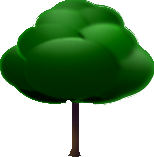
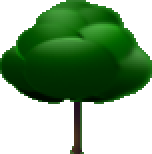
proper tiling chunks FINALLY 😤

diff --git a/Ground.cpp b/Ground.cpp
@@ -1,10 +1,14 @@
 #include "Ground.hpp"
 #include <cassert>
+#include <iostream>
+#include <sstream>
+#include <string>
 
 Ground::Ground(Shader &shader)
-    : Ground(shader, 50, 50, (Vector3){0.0f, 0.0f, 0.0f}) {}
+    : Ground(shader, 50, 50, 0, 0, (Vector3){0.0f, 0.0f, 0.0f}) {}
 
-Ground::Ground(Shader &shader, int width, int length, Vector3 origin)
+Ground::Ground(Shader &shader, int width, int length, int xIdx, int zIdx,
+               Vector3 origin)
     : Object{shader}, meshWidth{width}, meshLength{length}, origin{origin} {
   // https://www.raylib.com/examples/shaders/loader.html?name=shaders_vertex_displacement
   this->setShader(shader);
@@ -13,27 +17,37 @@ Ground::Ground(Shader &shader, int width, int length, Vector3 origin)
   // create perlin noise to use as texture
   int texWidth = leastGreaterTwo(width * 10);
   int texLength = leastGreaterTwo(length * 10);
-  /* std::cout << "size w is: " << texWidth << std::endl; */
-  /* std::cout << "size l is: " << texLength << std::endl; */
+  std::cout << "xidx is: " << xIdx << std::endl;
+  std::cout << "zidx l is: " << zIdx << std::endl;
 
-  Image perlinNoiseImage =
-      GenImagePerlinNoise(texWidth, texLength, 10, 10, 1.0f);
-  this->initModel(perlinNoiseImage);
-  this->initPlaneHeights(perlinNoiseImage, 10);
-  UnloadImage(perlinNoiseImage);
+  perlinNoiseImage = std::make_unique<Image>(GenImagePerlinNoise(
+      texWidth, texLength, xIdx * texWidth, zIdx * texLength, 1.0f));
+  assert(IsImageValid(*perlinNoiseImage));
+
+  std::stringstream str;
+  str << zIdx << xIdx << ".png";
+  std::string strc = str.str();
+
+  /* ExportImage(perlinNoiseImage, strc.c_str()); */
+  this->initModel(*perlinNoiseImage);
+  this->initPlaneHeights(*perlinNoiseImage, 10);
+  /* UnloadImage(perlinNoiseImage); */
 }
 
 Ground::Ground(const Ground &other) : Object(other.shader) {
   planeModel = nullptr;
   planeMesh = nullptr;
+  perlinNoiseImage = nullptr;
 
   planeModel = std::make_unique<Model>(*(other.planeModel));
   planeMesh = std::make_unique<Mesh>(*(other.planeMesh));
+  perlinNoiseImage = std::make_unique<Image>(*(other.perlinNoiseImage));
   planeHeights = other.planeHeights;
 
   meshWidth = other.meshWidth;
   meshLength = other.meshLength;
   origin = other.origin;
+  texture = other.texture;
 }
 
 Ground &Ground::operator=(Ground &&other) {
@@ -41,17 +55,21 @@ Ground &Ground::operator=(Ground &&other) {
   if (this != &other) {
     planeModel = nullptr;
     planeMesh = nullptr;
+    perlinNoiseImage = nullptr;
 
     planeModel = std::move(other.planeModel);
     planeMesh = std::move(other.planeMesh);
+    perlinNoiseImage = std::move(other.perlinNoiseImage);
     planeHeights = std::move(other.planeHeights);
 
     meshWidth = other.meshWidth;
     meshLength = other.meshLength;
     origin = other.origin;
+    texture = other.texture;
 
     other.planeModel = nullptr;
     other.planeMesh = nullptr;
+    other.perlinNoiseImage = nullptr;
   }
 
   return *this;
@@ -69,6 +87,9 @@ void Ground::unloadResources() {
 void Ground::draw() const {
 
   BeginShaderMode(shader);
+
+  /* int perlinNoiseMapLoc = GetShaderLocation(shader, "perlinNoiseMap"); */
+  /* SetShaderValueTexture(shader, perlinNoiseMapLoc, texture); */
 
   DrawModel(*(this->planeModel), this->origin, 1.0f, (Color){0, 0, 0});
 
@@ -116,13 +137,15 @@ void Ground::drawPlaneHeights(int width, int height, int numSamples) const {
 }
 
 void Ground::initModel(Image &perlinNoiseImage) {
-  Texture perlinNoiseMap = LoadTextureFromImage(perlinNoiseImage);
+  /* tex = LoadTextureFromImage(perlinNoiseImage); */
+  Texture2D texture = LoadTextureFromImage(perlinNoiseImage);
+  SetTextureWrap(texture, TEXTURE_WRAP_CLAMP);
 
-  rlEnableShader(shader.id);
-  int perlinNoiseMapLoc = GetShaderLocation(shader, "perlinNoiseMap");
-  rlActiveTextureSlot(1);
-  rlEnableTexture(perlinNoiseMap.id);
-  rlSetUniformSampler(perlinNoiseMapLoc, 1);
+  /* rlEnableShader(shader.id); */
+  /* int perlinNoiseMapLoc = GetShaderLocation(shader, "perlinNoiseMap"); */
+  /* rlActiveTextureSlot(1); */
+  /* rlEnableTexture(tex.id); */
+  /* rlSetUniformSampler(perlinNoiseMapLoc, 1); */
 
   this->planeMesh = std::make_unique<Mesh>(
       GenMeshPlane(meshWidth, meshLength, meshWidth, meshLength));
@@ -130,7 +153,7 @@ void Ground::initModel(Image &perlinNoiseImage) {
   this->planeModel =
       std::make_unique<Model>(LoadModelFromMesh(*(this->planeMesh)));
   this->planeModel->materials[0].shader = this->shader;
-  rlDisableShader();
+  this->planeModel->materials[0].maps[MATERIAL_MAP_DIFFUSE].texture = texture;
 }
 
 void Ground::initPlaneHeights(const Image &perlinNoiseImage,

diff --git a/GroundTiler.cpp b/GroundTiler.cpp
@@ -2,14 +2,16 @@
 #include <algorithm>
 
 /* GroundTile class member implementations */
-GroundTile::GroundTile(int width, int length, Vector3 origin, Shader &shader)
-    : tile{Ground(shader, width, length, origin)}, origin{origin},
+GroundTile::GroundTile(int width, int length, int xIdx, int zIdx,
+                       Vector3 origin, Shader &shader)
+    : tile{Ground(shader, width, length, xIdx, zIdx, origin)}, origin{origin},
       startX{origin.x - (width / 2.0f)}, endX{origin.x + (width / 2.0f)},
       startY{origin.y - (length / 2.0f)}, endY{origin.y + (length / 2.0f)} {}
 
 const Vector3 &GroundTile::getOrigin() const { return this->tile.getOrigin(); }
 
 /* GroundTiler class member implementations */
+
 GroundTiler::GroundTiler(Shader &shader)
     : GroundTiler(shader, DEFAULT_WIDTH, DEFAULT_LENGTH) {}
 GroundTiler::GroundTiler(Shader &shader, int width, int length)
@@ -27,14 +29,14 @@ GroundTiler::GroundTiler(Shader &shader, int width, int length)
   for (int z = 0; z < arrayWidth; z++) {
     for (int x = 0; x < arrayWidth; x++) {
 
-      Vector3 origin =
-          (Vector3){(float)x * meshWidth, 0.0f, (float)z * meshLength};
+      Vector3 origin = (Vector3){(float)x * (meshWidth - 0.3f), 0.0f,
+                                 (float)z * (meshLength - 0.3f)};
 
       origin.x += startPos.x;
       origin.z += startPos.z;
 
       this->tiles.emplace_back(std::make_unique<GroundTile>(
-          GroundTile(meshWidth, meshLength, origin, shader)));
+          GroundTile(meshWidth, meshLength, x, z, origin, shader)));
     }
   }
 }

diff --git a/main.cpp b/main.cpp
@@ -71,7 +71,7 @@ void initTreeLocations(std::vector<std::pair<Vector3, float>> &positions,
         flag = checkValidTreePlacement(positions.at(j).first, pos, 20.0f);
       }
 
-      std::cout << "flag is " << flag << std::endl;
+      /* std::cout << "flag is " << flag << std::endl; */
       if (flag) {
         positions.emplace_back(
             std::make_pair<Vector3, float>(std::move(pos), -1.0f));
@@ -188,6 +188,7 @@ int main(void) {
 
   Shader shader = LoadShader("terrain_shader_grass_vs.glsl",
                              "terrain_shader_grass_fs.glsl");
+
   Shader treeShader = LoadShader(NULL, "tree_shader_fs.glsl");
 
   GroundTiler ground = GroundTiler(shader);
@@ -199,7 +200,6 @@ int main(void) {
                     ground.getMaxZ(), 200);
 
   // minimize z fighting in billboards
-  rlSetClipPlanes(0.1, 200);
 
   // main game loop
   while (!WindowShouldClose()) {

diff --git a/Ground.hpp b/Ground.hpp
@@ -11,7 +11,8 @@
 class Ground : public Object {
 public:
   Ground(Shader &shader);
-  Ground(Shader &shader, int width, int length, Vector3 origin);
+  Ground(Shader &shader, int width, int length, int xIdx, int zIdx,
+         Vector3 origin);
   Ground(const Ground &other);
   Ground &operator=(Ground &&ground);
   void unloadResources();
@@ -23,9 +24,11 @@ public:
 private:
   std::unique_ptr<Model> planeModel;
   std::unique_ptr<Mesh> planeMesh;
+  std::unique_ptr<Image> perlinNoiseImage;
   std::vector<float> planeHeights;
   int meshWidth;
   int meshLength;
+  Texture2D texture;
   Vector3 origin;
 
   int leastGreaterTwo(int n);

diff --git a/GroundTiler.hpp b/GroundTiler.hpp
@@ -9,7 +9,8 @@
 class GroundTile {
 
 public:
-  GroundTile(int width, int length, Vector3 origin, Shader &shader);
+  GroundTile(int width, int length, int xIdx, int zIdx, Vector3 origin,
+             Shader &shader);
   const Vector3 &getOrigin() const;
   Ground tile;
   Vector3 origin;
